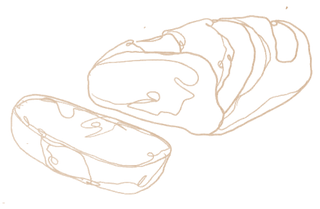
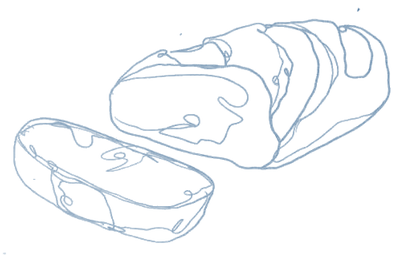
Scale up bread illustration in hero badge + recolor to Swedish blue
- Re-rendered the line drawing in --swedish (#2A5C8A) instead
    of crust amber. Cooler and more distinctive against the warm
    cream palette; quietly anchors the Scandinavian thread of
    the brand.
  - Source PNG bumped from 320px → 400px wide so the new larger
    CSS size renders sharp on retina.
  - Badge bumped: bread element 56x40 → 80x56, container max-w
    from xs → sm, gap tightened to 4 so the illustration reads
    as the visual hero rather than a small mark next to the
    text.

diff --git a/index.html b/index.html
@@ -137,8 +137,8 @@
       </div>
 
       <!-- Small ceremonial badge, bottom-right on desktop only -->
-      <a href="your-table.html" class="hero-badge hidden lg:flex bottom-10 right-10 z-10 bg-cream/95 backdrop-blur-sm rounded-2xl shadow-soft pl-4 pr-5 py-4 items-center gap-3 max-w-xs hover:bg-cream group">
-        <span class="badge-bread w-14 h-10 flex-shrink-0 flex items-center justify-center" aria-hidden="true">
+      <a href="your-table.html" class="hero-badge hidden lg:flex bottom-10 right-10 z-10 bg-cream/95 backdrop-blur-sm rounded-2xl shadow-soft pl-4 pr-5 py-4 items-center gap-4 max-w-sm hover:bg-cream group">
+        <span class="badge-bread w-20 h-14 flex-shrink-0 flex items-center justify-center" aria-hidden="true">
           <img src="assets/images/bread-drawing.png" alt="" class="w-full h-full object-contain" />
         </span>
         <span class="leading-tight">
